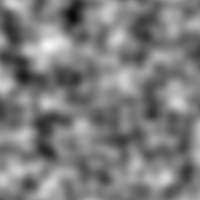
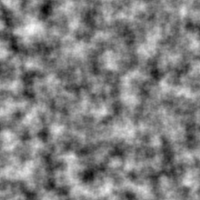
fixed fog first terrain approach

diff --git a/src/ConstantShader.cpp b/src/ConstantShader.cpp
@@ -7,6 +7,7 @@
 //
 
 #include "ConstantShader.h"
+#include "GameSettings.h"
 
 const char *CVertexShaderCode =
 "#version 400\n"
@@ -28,23 +29,34 @@ const char *CFragmentShaderCode =
 
 ConstantShader::ConstantShader() : Col(1.0f,0.0f,0.0f)
 {
-    ShaderProgram = createShaderProgram( CVertexShaderCode, CFragmentShaderCode );
-    
+    // ShaderProgram = createShaderProgram( CVertexShaderCode, CFragmentShaderCode );
+	bool loaded = load(SHADER_DIRECTORY "vertex/vsconstant.glsl", SHADER_DIRECTORY "fragment/fsconstant.glsl");
+	if (!loaded)
+		throw std::exception();
+
     ColorLoc = glGetUniformLocation(ShaderProgram, "Color");
     assert(ColorLoc>=0);
+
     ModelViewProjLoc  = glGetUniformLocation(ShaderProgram, "ModelViewProjMat");
-    assert(ModelViewProjLoc>=0);
-    
+    assert(ModelViewProjLoc >=0);
+
+	ModelMatLoc = glGetUniformLocation(ShaderProgram, "ModelMat");
+	// assert(ModelMatLoc >= 0);
+
+	WorldDepthLoc = glGetUniformLocation(ShaderProgram, "WorldDepth");
+	// assert(WorldDepthLoc >= 0);
 }
 void ConstantShader::activate(const BaseCamera& Cam) const
 {
     BaseShader::activate(Cam);
     
+	glUniform1f(WorldDepthLoc, GameSettings::WORLD_DEPTH);
     glUniform3f(ColorLoc, Col.R, Col.G, Col.B);
     // always update matrices
     Matrix ModelView = Cam.getViewMatrix() * ModelTransform;
     Matrix ModelViewProj = Cam.getProjectionMatrix() * ModelView;
     glUniformMatrix4fv(ModelViewProjLoc, 1, GL_FALSE, ModelViewProj.m);
+	glUniformMatrix4fv(ModelMatLoc, 1, GL_FALSE, modelTransform().m);
 }
 void ConstantShader::color( const Color& c)
 {

diff --git a/src/ScreenShader.cpp b/src/ScreenShader.cpp
@@ -7,7 +7,7 @@
 #define ASSET_DIRECTORY "../assets/"
 #endif
 
-ScreenShader::ScreenShader() {
+ScreenShader::ScreenShader(): UpdateState(0xFFFFFFFF) {
 	bool loaded = load(ASSET_DIRECTORY "shader/vertex/vsscreen.glsl", ASSET_DIRECTORY "shader/fragment/fsscreen.glsl");
 	if (!loaded)
 		throw std::exception();
@@ -40,6 +40,11 @@ void ScreenShader::assignLocations()
 	LineSpeedLoc = glGetUniformLocation(ShaderProgram, "LineSpeed");
 	VignetteRadiusLoc = glGetUniformLocation(ShaderProgram, "vignetteRadius");
 	VignetteSoftnessLoc = glGetUniformLocation(ShaderProgram, "vignetteSoftness");
+
+	WorldDepthLoc = glGetUniformLocation(ShaderProgram, "worldDepth");
+	FogStartLoc = glGetUniformLocation(ShaderProgram, "fogStartZ");
+	FogEndLoc = glGetUniformLocation(ShaderProgram, "fogEndZ");
+
 	FogColorLoc = glGetUniformLocation(ShaderProgram, "fogColor");
 	
 	GLuint screenTexLoc = glGetUniformLocation(ShaderProgram, "screenTexture");
@@ -112,7 +117,11 @@ void ScreenShader::activate(const BaseCamera& Cam) const
 	if (UpdateState & VIGNETTE_SOFTNESS_CHANGED && Vig)
 		glUniform1f(VignetteSoftnessLoc, VignetteSoftness);
 	if (UpdateState & FOG_COLOR_CHANGED && Fog)
-		glUniform3f(FogColorLoc, FogColor.R, FogColor.G, FogColor.B);
+		// glUniform3f(FogColorLoc, FogColor.R, FogColor.G, FogColor.B);
+
+	glUniform1f(WorldDepthLoc, WorldDepth);
+	glUniform1f(FogStartLoc, fogStartZ);
+	glUniform1f(FogEndLoc, fogEndZ);
 }
 
 ScreenShader* ScreenShader::on(bool value)

diff --git a/src/TerrainShader.cpp b/src/TerrainShader.cpp
@@ -34,9 +34,9 @@ void TerrainShader::activate(const BaseCamera& Cam) const
 	BaseShader::activate(Cam);
 
 	glUniform1f(TimeLoc, (GLfloat) glfwGetTime());
-	glUniform1i(WorldWidthLoc, WorldWidth);
-	glUniform1i(WorldDepthLoc, WorldDepth);
-	glUniform1i(MountainWidthLoc, MountainWidth);
+	glUniform1f(WorldWidthLoc, WorldWidth);
+	glUniform1f(WorldDepthLoc, WorldDepth);
+	glUniform1f(MountainWidthLoc, MountainWidth);
 
 	Matrix ModelView = Cam.getViewMatrix() * ModelTransform;
 	Matrix ModelViewProj = Cam.getProjectionMatrix() * ModelView;
@@ -71,7 +71,7 @@ void TerrainShader::initNoiseTexture()
 	NoiseMapImage = new RGBImage(sizeX, sizeZ);
 	for (int z = 0; z < sizeZ; z++) {
 		for (int x = 0; x < sizeX; x++) {
-			float perlinValue = siv::PerlinNoise().octaveNoise0_1(x /32.0f, z / 32.0f, 2);
+			float perlinValue = siv::PerlinNoise().octaveNoise0_1(x / 20.0f, z / 20.0f, 4);
 			NoiseMapImage->setPixelColor(x,z, 
 				Color(
 					perlinValue, 

diff --git a/src/ScreenShader.h b/src/ScreenShader.h
@@ -1,5 +1,7 @@
 #pragma once
 #include "BaseShader.h"
+#include "GameSettings.h"
+
 class ScreenShader : public BaseShader
 {
 public:
@@ -80,7 +82,12 @@ private:
 	float LineSpeed = 1.0f;
 	float VignetteRadius = 0.45f;
 	float VignetteSoftness = 1.0f;
-	Color FogColor = Color(0.4f, 0.4f, 0.4f);
+
+	float WorldDepth = GameSettings::WORLD_DEPTH;
+	float fogStartZ = 13.5f;
+	float fogEndZ = 18.0f;
+
+	Color FogColor = Color(0.75f, 0.75f, 0.75f);
 
 	GLint OnLoc;
 	GLint TimeLoc;
@@ -104,6 +111,9 @@ private:
 	GLint VignetteRadiusLoc;
 	GLint VignetteSoftnessLoc;
 	GLint FogLoc;
+	GLint WorldDepthLoc;
+	GLint FogStartLoc;
+	GLint FogEndLoc;
 	GLint FogColorLoc;
 
 	mutable unsigned int UpdateState;

diff --git a/src/TerrainShader.h b/src/TerrainShader.h
@@ -18,9 +18,9 @@ private:
 	RGBImage* NoiseMapImage;
 	void initNoiseTexture();
 
-    int WorldWidth = GameSettings::WORLD_WIDTH;
-    int WorldDepth = GameSettings::WORLD_DEPTH;
-    int MountainWidth = GameSettings::MOUNTAIN_WIDTH;
+    float WorldWidth = GameSettings::WORLD_WIDTH;
+    float WorldDepth = GameSettings::WORLD_DEPTH;
+    float MountainWidth = GameSettings::MOUNTAIN_WIDTH;
 
 	Texture* NoiseMapTexture = Texture::defaultTex();
 

diff --git a/src/PhongShader.cpp b/src/PhongShader.cpp
@@ -115,7 +115,7 @@ void PhongShader::activate(const BaseCamera& Cam) const
 {
     BaseShader::activate(Cam);
    
-    glUniform1i(WorldDepthLoc, GameSettings::WORLD_DEPTH);
+    glUniform1f(WorldDepthLoc, (float) GameSettings::WORLD_DEPTH);
 
     // update uniforms if necessary
     if(UpdateState&DIFF_COLOR_CHANGED)

diff --git a/src/ConstantShader.h b/src/ConstantShader.h
@@ -37,9 +37,11 @@ public:
     virtual void activate(const BaseCamera& Cam) const;
 private:
     Color Col;
-    GLuint ShaderProgram;
+    // GLuint ShaderProgram;
     GLint ColorLoc;
     GLint ModelViewProjLoc;
+	GLint ModelMatLoc;
+	GLint WorldDepthLoc;
     
 };
 
